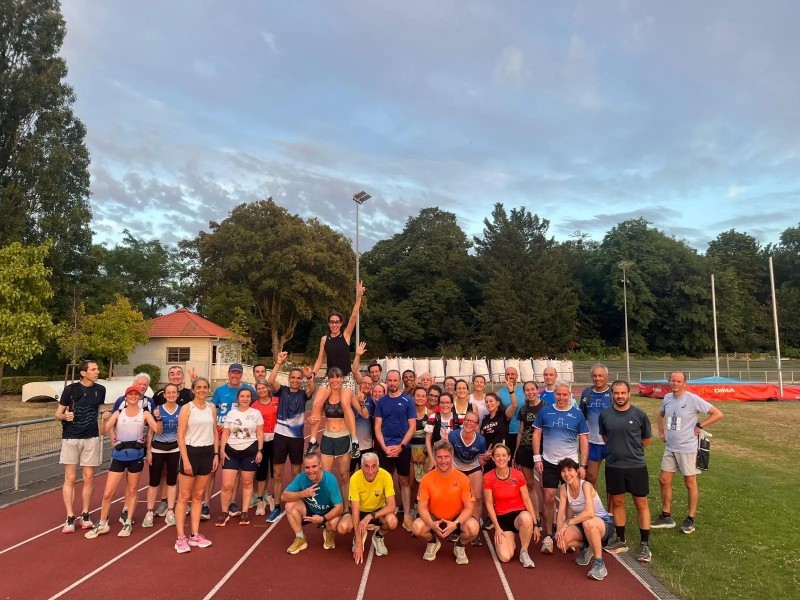
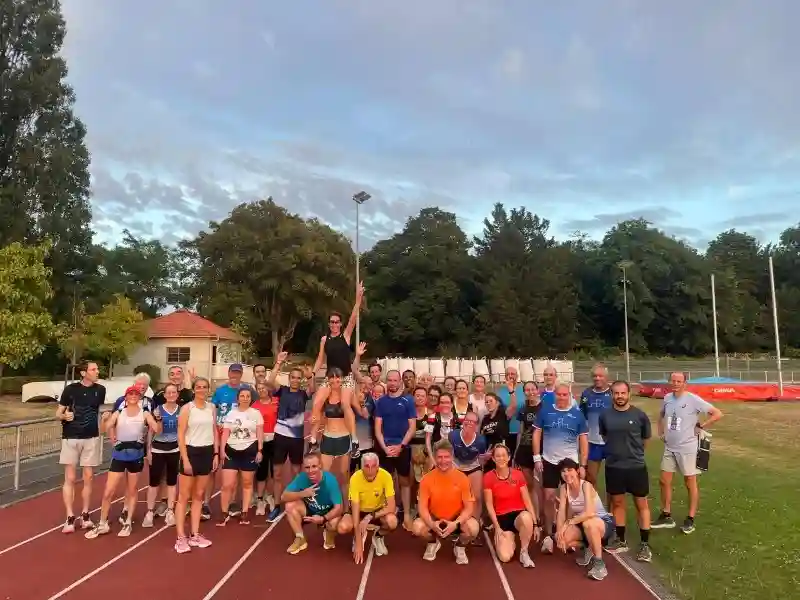
Améliorations lighthouse

diff --git a/frontend/src/App.tsx b/frontend/src/App.tsx
@@ -8,46 +8,47 @@ import { AuthProvider } from "./contexts/AuthContext";
 import { HelmetProvider } from 'react-helmet-async';
 import { PageProtegee } from "./composants/PageProtegee";
 
-// Layout & Composants de structure
+// Layout & Composants de structure (Requis au 1er affichage)
 import Generale from "./composants/generale/Generale";
 import ErreurElement from "./composants/erreur/ErreurElement";
 
-// ⚡ 1. PAGES EN CHARGEMENT DIRECT (Eager Loading)
-// Visibles en 1 clic depuis le menu principal -> Navigation ultra-fluide !
+// ⚡ 1. SEULE LA PAGE D'ACCUEIL EST EN EAGER LOADING
 import Accueil from "./pages/base/Accueil";
-import HistoireDuClub from "./pages/NotreHistoire";
-import Contact from "./pages/base/ContactezNous";
-import Calendrier from "./pages/Calendrier";
-import Blog from "./pages/blog/Blog";
-import NosPartenaires from "./pages/NosPartenaires";
-import NosRessources from "./pages/ressources/RessourcesEntrainement";
-import Connexion from "./pages/base/Connexion";
 
-// 💤 2. PAGES EN LAZY LOADING (Chargées à la demande)
+// 💤 2. TOUTES LES AUTRES PAGES SONT EN LAZY LOADING (Inclus Blog, Calendrier, Connexion)
 
-// A. Administration (Inutile pour 95% des visiteurs)
+// Public principal
+const Calendrier = lazy(() => import("./pages/Calendrier"));
+const Blog = lazy(() => import("./pages/blog/Blog"));
+const NosRessources = lazy(() => import("./pages/ressources/RessourcesEntrainement"));
+const Connexion = lazy(() => import("./pages/base/Connexion"));
+const HistoireDuClub = lazy(() => import("./pages/NotreHistoire"));
+const Contact = lazy(() => import("./pages/base/ContactezNous"));
+const NosPartenaires = lazy(() => import("./pages/NosPartenaires"));
+
+// Administration
 const AdminAccueil = lazy(() => import("./pages/administration/InterfaceAdministration"));
 const AdministrationElement = lazy(() => import("./pages/administration/AdministrationElement"));
 const Statistiques = lazy(() => import("./pages/administration/Statistiques"));
 const EditionTextesPage = lazy(() => import("./pages/administration/EditionPage"));
 const GestionImages = lazy(() => import("./pages/administration/GestionImages"));
 const GestionPages = lazy(() => import("./pages/administration/GestionPages"));
-const Helloasso = lazy(() => import("./pages/administration/Helloasso"))
+const Helloasso = lazy(() => import("./pages/administration/Helloasso"));
 
-// B. Espace Adhérents & Rédaction
+// Espace Adhérents & Rédaction
 const Trombinoscope = lazy(() => import("./pages/ressources/Trombinoscope"));
 const SpecialistesSante = lazy(() => import("./pages/ressources/SpecialistesSante"));
 const RedactionArticle = lazy(() => import("./pages/blog/RedactionArticle"));
 const Anniversaires = lazy(() => import("./pages/ressources/Anniversaires"));
 const CategoriesFFA = lazy(() => import("./pages/ressources/CategoriesFFA"));
 
-// C. Outils spécifiques & Calculateurs (Contiennent du JS plus lourd)
+// Outils spécifiques & Calculateurs
 const ArticleDetailPage = lazy(() => import("./pages/blog/ArticleDetail"));
 const CalculateurVMA = lazy(() => import("./pages/ressources/Allures"));
 const PlanEntrainement = lazy(() => import("./pages/ressources/PlanEntrainement"));
 const TestsVMA = lazy(() => import("./pages/ressources/TestsVma"));
 
-// D. Pages Juridiques & Techniques (Visites très rares)
+// Pages Juridiques & Technique
 const Lexique = lazy(() => import("./pages/ressources/Lexique"));
 const MentionsLegales = lazy(() => import("./pages/legal/MentionsLegales"));
 const PolitiqueConfidentialite = lazy(() => import("./pages/legal/PolitiquesConfidentialite"));
@@ -56,66 +57,50 @@ const Credits = lazy(() => import("./pages/legal/Credits"));
 const Token = lazy(() => import("./pages/Token"));
 const PageBdd = lazy(() => import("./pages/base/PageBdd"));
 
-// Composant fallback pour le chargement des chunks
+// Fallback léger
 const PageLoader = () => (
     <div className="flex min-h-[50vh] items-center justify-center">
         <div className="h-8 w-8 animate-spin rounded-full border-4 border-accent-500 border-t-transparent"></div>
     </div>
 );
-async function loaderModifierArticle(params: Params<string>) {
 
+// Loaders asynchrones
+async function loaderModifierArticle(params: Params<string>) {
     const { url } = params;
     const requete = await fetch("/articles/recuperer-article-admin/" + url, {
         method: "GET",
-        headers: {
-            "Content-Type": "application/json",
-        },
+        headers: { "Content-Type": "application/json" },
         credentials: "include",
     });
 
-    if (!requete.ok) {
-        throw new Response("Erreur lors de la récupération de l'article", {
-            status: 500,
-        });
-    }
+    if (!requete.ok) throw new Response("Erreur lors de la récupération de l'article", { status: 500 });
     const reponse = await requete.json();
-    if (!reponse.etat) {
-        throw new Response("Impossible de charger les données de l'article", {
-            status: 500,
-        });
-    }
+    if (!reponse.etat) throw new Response("Impossible de charger les données de l'article", { status: 500 });
     return reponse.detail;
 }
 
 async function loaderModifierPage(params: Params<string>) {
-
     const { url } = params;
     const requete = await fetch("/pages/details-admin/" + url, {
         method: "GET",
-        headers: {
-            "Content-Type": "application/json",
-        },
+        headers: { "Content-Type": "application/json" },
         credentials: "include",
     });
 
-    if (!requete.ok) {
-        throw new Response("Erreur lors de la récupération de l'article", {
-            status: 500,
-        });
-    }
+    if (!requete.ok) throw new Response("Erreur lors de la récupération de l'article", { status: 500 });
     const reponse = await requete.json();
-    if (!reponse.etat) {
-        throw new Response("Impossible de charger les données de l'article", {
-            status: 500,
-        });
-    }
+    if (!reponse.etat) throw new Response("Impossible de charger les données de l'article", { status: 500 });
     return reponse.detail;
 }
 
 const router = createBrowserRouter([
     {
         path: "/",
-        element: <Suspense fallback={<PageLoader />}> <Generale /></Suspense>,
+        element: (
+            <Suspense fallback={<PageLoader />}>
+                <Generale />
+            </Suspense>
+        ),
         errorElement: <ErreurElement />,
         children: [
             // --- ROUTES PUBLIQUES ---
@@ -174,6 +159,7 @@ const router = createBrowserRouter([
                     },
                 ],
             },
+
             // --- PAGES LÉGALES ---
             { path: "/mentions-legales", element: <MentionsLegales /> },
             { path: "/politique-confidentialite", element: <PolitiqueConfidentialite /> },

diff --git a/frontend/vite.config.ts b/frontend/vite.config.ts
@@ -4,15 +4,15 @@ import tailwindcss from "@tailwindcss/vite";
 import svgr from "vite-plugin-svgr";
 
 export default defineConfig(({ mode }) => {
-    // Charge les variables .env et les arguments transmis au build
     const env = loadEnv(mode, process.cwd(), "");
 
-    // Cible du backend : vérifie env (loadEnv), process.env puis le fallback Docker
     const backendUrl = env.VITE_API_INTERNAL_URL || "http://backend:8100";
-    // Liste des préfixes de routes API à rediriger
-    const proxyRoutes = ["/utilisateurs", "/autres", "/articles", "/courses", "/statistiques", "/specialistes", "/fichiers", "/images", "/pages", "/helloasso"];
+    const proxyRoutes = [
+        "/utilisateurs", "/autres", "/articles", "/courses", 
+        "/statistiques", "/specialistes", "/fichiers", "/images", 
+        "/pages", "/helloasso"
+    ];
 
-    // Génération dynamique de l'objet proxy
     const proxyConfig: Record<string, any> = {};
     proxyRoutes.forEach((route) => {
         proxyConfig[route] = {
@@ -31,53 +31,73 @@ export default defineConfig(({ mode }) => {
             }),
         ],
         build: {
-            chunkSizeWarningLimit: 800,
+            // Seuil de warning baissé pour mieux surveiller la taille
+            chunkSizeWarningLimit: 500,
+            
+            // Suppression des commentaires et minification agressive
+            target: "es2022",
+            minify: "esbuild",
+            cssMinify: true,
+            
             rollupOptions: {
                 output: {
+                    // Nettoie la liste des préchargements HTML pour éviter de télécharger 
+                    // les chunks qui ne servent qu'aux pages dynamiques/lazy-loaded
+                    experimentalMinChunkSize: 10000,
+                    
                     manualChunks(id) {
                         if (id.includes("node_modules")) {
-                            if (id.includes("@tiptap") || id.includes("turndown")) {
+                            // L'éditeur Tiptap et Turndown (Lourd -> Lazy-loaded sur la page dédiée)
+                            if (id.includes("@tiptap") || id.includes("turndown") || id.includes("prosemirror")) {
                                 return "vendor-editor";
                             }
-                            if (id.includes("recharts") || id.includes("d3")) {
+                            // Graphiques et cartes (Lourd -> Lazy-loaded)
+                            if (id.includes("recharts") || id.includes("d3-") || id.includes("d3")) {
                                 return "vendor-charts";
                             }
-                            if (id.includes("@react-oauth") || id.includes("@marsidev/react-turnstile") || id.includes("jwt-decode")) {
-                                return "vendor-auth";
-                            }
-                            if (id.includes("dompurify") || id.includes("html2canvas-pro")) {
+                            // Outils d'export / DOM
+                            if (id.includes("html2canvas") || id.includes("dompurify")) {
                                 return "vendor-dom-utils";
                             }
+                            // Authentification et sécurité
+                            if (id.includes("@react-oauth") || id.includes("turnstile") || id.includes("jwt-decode")) {
+                                return "vendor-auth";
+                            }
+                            // Icônes
                             if (id.includes("lucide-react")) {
                                 return "vendor-icons";
                             }
-                            if (id.includes("node_modules/react/") || id.includes("node_modules/react-dom/") || id.includes("node_modules/react-router-dom/") || id.includes("node_modules/react-helmet-async/")) {
+                            // Core React (Indispensable immédiatement)
+                            if (
+                                id.includes("node_modules/react/") || 
+                                id.includes("node_modules/react-dom/") || 
+                                id.includes("node_modules/react-router") ||
+                                id.includes("node_modules/scheduler/")
+                            ) {
                                 return "vendor-react-core";
                             }
-                            return "vendor-others";
                         }
                     },
                 },
             },
         },
         server: {
-            port: parseInt(env.VITE_PORT_APPLICATION),
+            port: parseInt(env.VITE_PORT_APPLICATION || "3000"),
             historyApiFallback: true,
             proxy: proxyConfig,
             host: "0.0.0.0",
-            allowedHosts: true, // Désactive le blocage strict du header Host par Vite
+            allowedHosts: true,
             watch: {
                 usePolling: true,
             },
             hmr: {
-                host: "localhost", // Indique au navigateur Windows où joindre le WebSocket HMR
-                clientPort: parseInt(env.VITE_PORT_APPLICATION),
+                host: "localhost",
+                clientPort: parseInt(env.VITE_PORT_APPLICATION || "3000"),
             },
         },
-        // Nécessaire pour Puppeteer et `vite preview` pendant la phase de prerendering
         preview: {
-            port: parseInt(env.VITE_PRERENDER_PORT),
-            host: true, // Recommandé en Docker pour autoriser les connexions entrantes
+            port: parseInt(env.VITE_PRERENDER_PORT || "3001"),
+            host: true,
             proxy: proxyConfig,
         },
     };

diff --git a/frontend/src/pages/base/Accueil.tsx b/frontend/src/pages/base/Accueil.tsx
@@ -268,7 +268,7 @@ export default function Accueil() {
                             <div className={`h-full w-full ${heroCharge ? "animate-[float_5s_ease-in-out_infinite]" : ""}`}>
                                 <img
                                     src="/img/banniere-800.webp"
-                                    srcSet="/img/banniere-530.webp 530w, /img/banniere-800.webp 800w, /img/banniere-1200.webp 1200w, /img/banniere-1600.webp 1600w"
+                                    srcSet="/img/banniere-530.webp 530w, /img/banniere-650.webp 650w, /img/banniere-800.webp 800w, /img/banniere-1200.webp 1200w"
                                     sizes="(min-width: 768px) 634px, 100vw"
                                     alt="Photo du club Running Vincennes Association"
                                     width={800}
